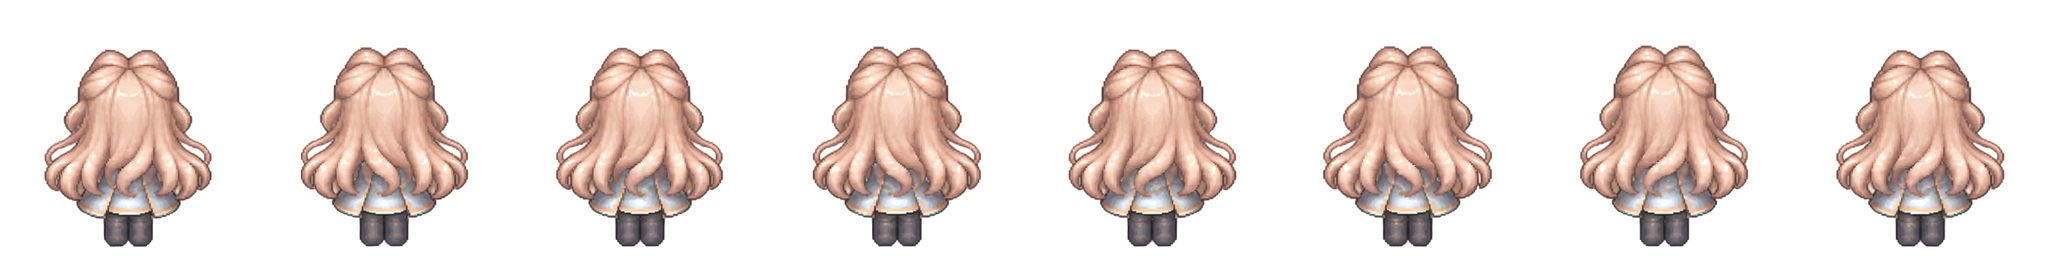
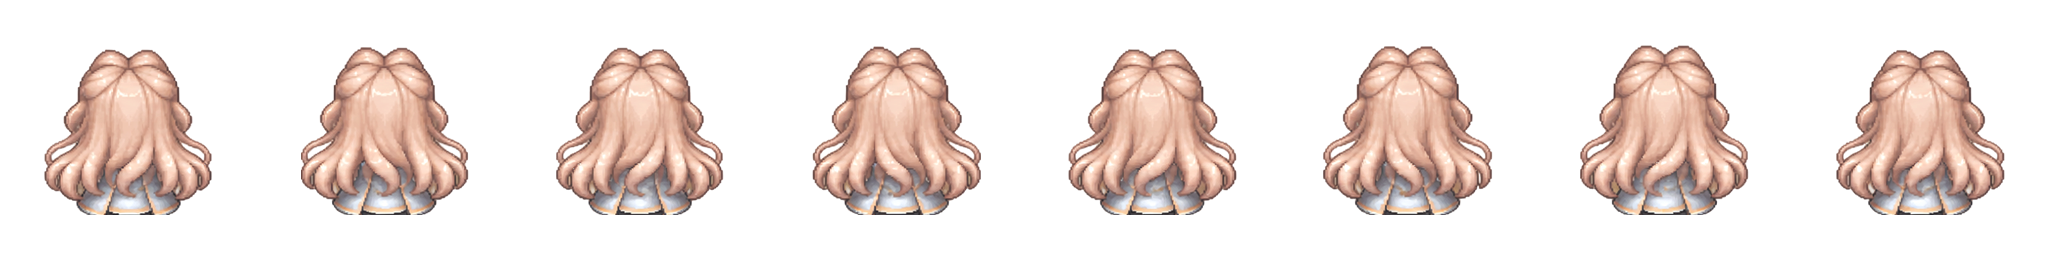
fix sitting v2 mage

diff --git a/lib/game/tavern_map.dart b/lib/game/tavern_map.dart
@@ -24,9 +24,10 @@ class TavernMap {
   static const Offset noticeBoardSpot = Offset(1245, 310);
   static const double noticeBoardReach = 95;
 
-  /// Where a seated character's feet go on each seat: low enough that the
-  /// skirt or trousers cover the cushion and the legs hang down in front of
-  /// the stool, so they read as sitting rather than standing on it. Standing within
+  /// Where a seated character's feet line goes on each seat. Seated-from-
+  /// behind sprites stop at the skirt hem (legs point away from the camera,
+  /// hidden by the body), so this puts the hem on the cushion with the stool
+  /// legs showing below. Standing within
   /// [seatReach] of a free one offers "Click to sit".
   ///
   /// Only seats you sit on with your back to the camera for now (the bar
@@ -35,21 +36,21 @@ class TavernMap {
   /// here with their own [Seat.facing] once those animations exist.
   static const List<Seat> seats = [
     // Bar stools, facing the bar.
-    Seat(378, 412),
-    Seat(443, 412),
-    Seat(508, 412),
-    Seat(571, 412),
-    Seat(633, 412),
-    Seat(696, 412),
-    Seat(761, 412),
-    Seat(826, 412),
+    Seat(378, 404),
+    Seat(443, 404),
+    Seat(508, 404),
+    Seat(571, 404),
+    Seat(633, 404),
+    Seat(696, 404),
+    Seat(761, 404),
+    Seat(826, 404),
     // Stools in front of tables, facing the table.
-    Seat(229, 884), // long table (left)
-    Seat(320, 884),
-    Seat(1068, 572), // table (top-right)
-    Seat(1162, 739), // table (middle-right)
-    Seat(983, 946), // big table (bottom-right)
-    Seat(1073, 946),
+    Seat(229, 876), // long table (left)
+    Seat(320, 876),
+    Seat(1068, 564), // table (top-right)
+    Seat(1162, 731), // table (middle-right)
+    Seat(983, 938), // big table (bottom-right)
+    Seat(1073, 938),
   ];
   static const double seatReach = 62;
 
